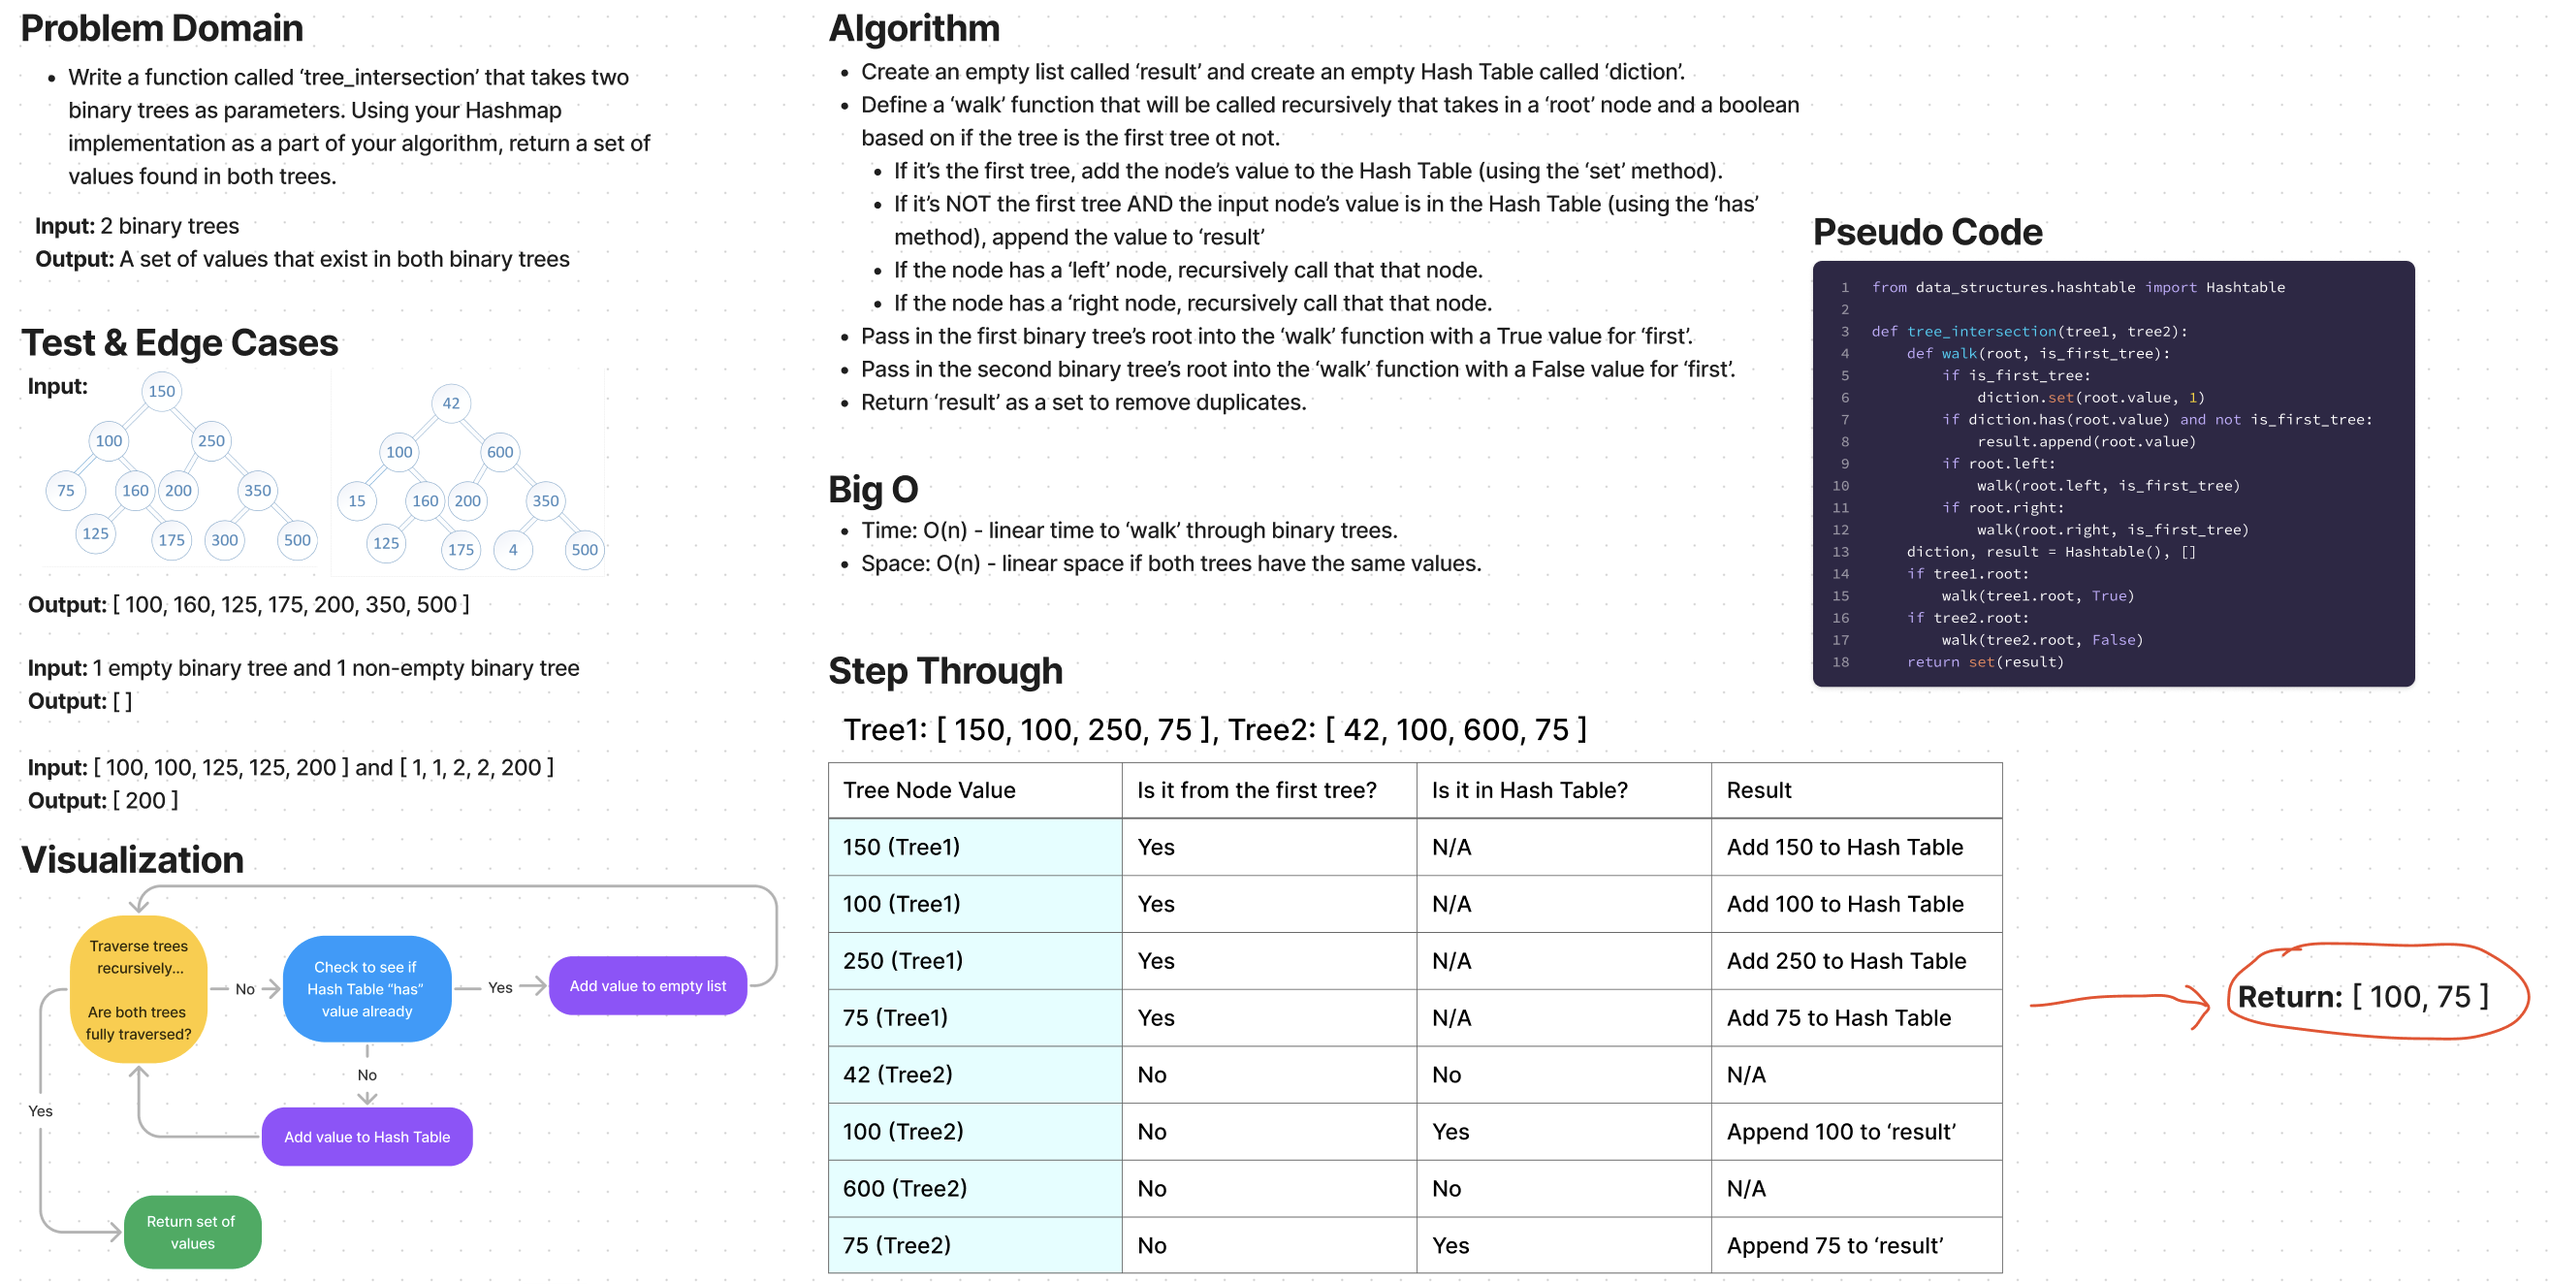
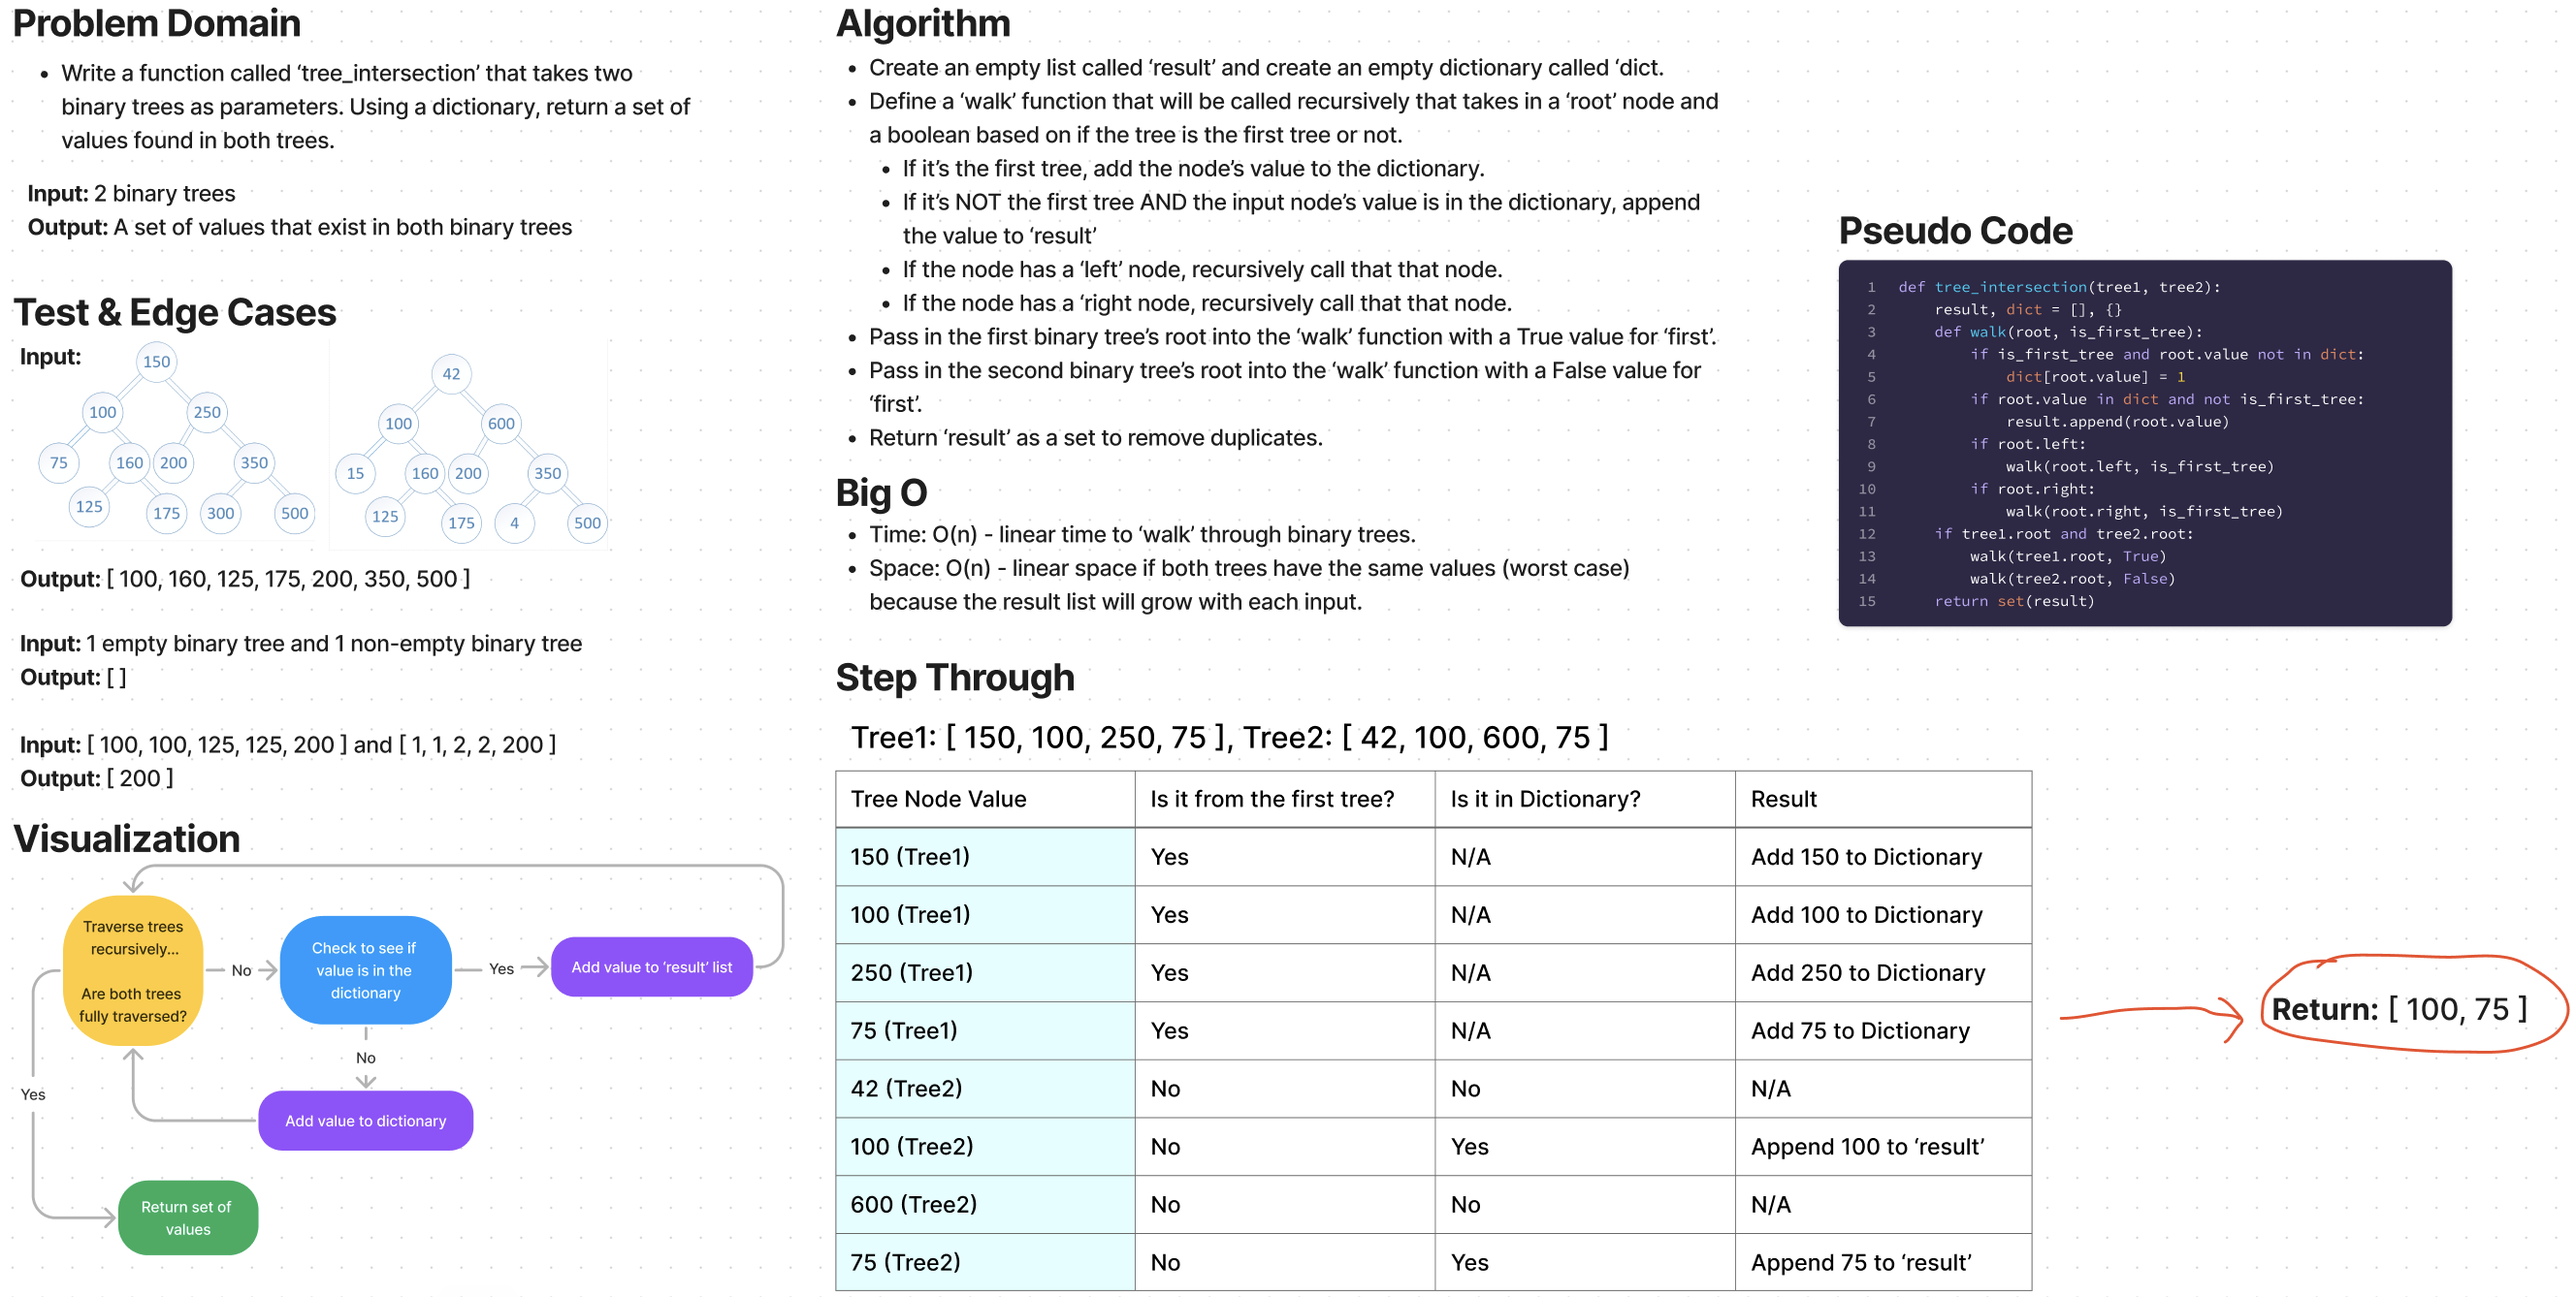
CC32 complete, changed to dictionary, passing new tests

diff --git a/python/code_challenges/tree_intersection.py b/python/code_challenges/tree_intersection.py
@@ -1,20 +1,15 @@
-from data_structures.binary_tree import BinaryTree
-from data_structures.hashtable import Hashtable
-
-
 def tree_intersection(tree1, tree2):
+    result, dict = [], {}
     def walk(root, is_first_tree):
-        if is_first_tree:
-            diction.set(root.value, 1)
-        if diction.has(root.value) and not is_first_tree:
+        if is_first_tree and root.value not in dict:
+            dict[root.value] = 1
+        if root.value in dict and not is_first_tree:
             result.append(root.value)
         if root.left:
             walk(root.left, is_first_tree)
         if root.right:
             walk(root.right, is_first_tree)
-    diction, result = Hashtable(), []
-    if tree1.root:
+    if tree1.root and tree2.root:
         walk(tree1.root, True)
-    if tree2.root:
         walk(tree2.root, False)
     return set(result)

diff --git a/python/docs/tree_intersection/README.md b/python/docs/tree_intersection/README.md
@@ -1,6 +1,6 @@
 # Challenge Summary
 
-* Write a function called `tree_intersection` that takes two binary trees as parameters. Using your `Hashmap` implementation as a part of your algorithm, return a set of values found in both trees.
+* Write a function called `tree_intersection` that takes two binary trees as parameters. Using a dictionary, return a set of values found in both trees.
 
 ## Whiteboard Process
 
@@ -9,10 +9,10 @@
 ## Approach & Efficiency
 
 Approach
-* Create an empty list called ‘result’ and create an empty Hash Table called ‘diction’.
-* Define a ‘walk’ function that will be called recursively that takes in a ‘root’ node and a boolean based on if the tree is the first tree ot not.
-  * If it’s the first tree, add the node’s value to the Hash Table (using the ‘set’ method).
-  * If it’s NOT the first tree AND the input node’s value is in the Hash Table (using the ‘has’ method), append the value to ‘result’.
+* Create an empty list called ‘result’ and create an empty dictionary called ‘dict.
+* Define a ‘walk’ function that will be called recursively that takes in a ‘root’ node and a boolean based on if the tree is the first tree or not.
+  * If it’s the first tree, add the node’s value to the dictionary.
+  * If it’s NOT the first tree AND the input node’s value is in the dictionary, append the value to ‘result’
   * If the node has a ‘left’ node, recursively call that that node.
   * If the node has a ‘right node, recursively call that that node.
 * Pass in the first binary tree’s root into the ‘walk’ function with a True value for ‘first’.
@@ -21,7 +21,7 @@ Approach
 
 Efficiency
 * Time: O(n) - linear time to ‘walk’ through binary trees.
-* Space: O(n) - linear space if both trees have the same values.
+* Space: O(n) - linear space if both trees have the same values (worst case) because the result list will grow with each input.
 
 ## Solution
 
